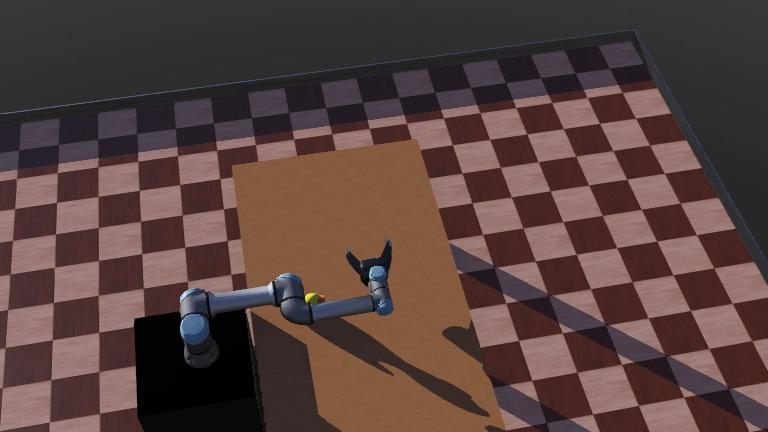
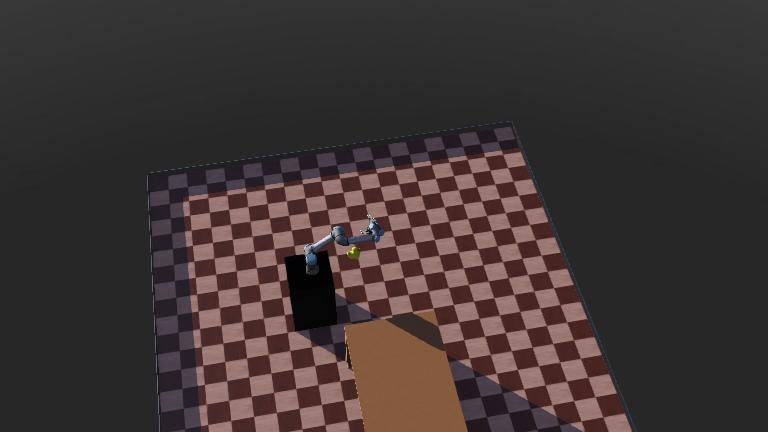
continuation of robots orientation using 'my_controllerOrientation.py' controller

diff --git a/universal_robots/controllers/my_controllerOrientation/my_controllerOrientation.py b/universal_robots/controllers/my_controllerOrientation/my_controllerOrientation.py
@@ -55,40 +55,6 @@ for motor in ur_motors:
     motor.setPosition(0.0) #set position to 0 for all motors in list
     motor.setVelocity(1.0) #set velocity for movement
 
-# Function to check for the colour yellow
-def check_for_yellow(image):
-    print("checking for yellow objects")
-    # Define lower and upper bounds for yellow color in HSV
-    lower_yellow = np.array([90, 100, 100])
-    upper_yellow = np.array([110, 255, 255])
-
-    # Convert image from BGR to HSV color space
-    hsv_image = cv2.cvtColor(image, cv2.COLOR_BGR2HSV)
-
-    # Create a mask to extract yellow regions
-    yellow_mask = cv2.inRange(hsv_image, lower_yellow, upper_yellow)
-
-    # Check if any yellow pixels are present in the image
-    return cv2.countNonZero(yellow_mask) > 0
-
-# Capture an image from the camera
-image = camera.getImageArray()
-
-# Check if the image is not None
-if image is not None:
-    # Convert the image array to a NumPy array
-    image_np = np.array(image, dtype=np.uint8)
-
-    # Call the function to check for yellow color
-    if check_for_yellow(image_np):
-        print("Yellow color detected")
-    else:
-        print("Yellow color not detected")
-else:
-    print("Error: Unable to capture camera image")
-            # Wait for the arm to reach the target position
-    sleep(1)
-
 #joint position function
 def move_to_joint_position(target_positions):
     print("moving to joint positions")
@@ -113,14 +79,28 @@ def move_to_joint_position(target_positions):
 #function loop
 move_to_joint_position(target_positions)
 
-def move_end_effector(x, y, z, target_orientation=[0,0,0]):
+target_orientation = np.eye(3) #returns 2-dimensional array
+#[1, 0, 0]
+#[0, 1, 0]
+#[0, 0, 1]
+
+def move_end_effector(x, y, z):
     print("moving end effector")
     # Inverse kinematics calculation
     IKPY_MAX_ITERATIONS = 4
+    #set initial positions
     initial_position = [0] + [m.getPositionSensor().getValue() for m in ur_motors] + [0, 1, 1, -1]
-    target_pose = [x, y, z] + target_orientation
-    ikResults = ur5e.inverse_kinematics(target_pose, max_iter=IKPY_MAX_ITERATIONS, initial_position=initial_position)
+    #compute IK with position and orientation
+    ikResults = ur5e.inverse_kinematics([x, y, z], target_orientation=target_orientation, orientation_mode="all", max_iter=IKPY_MAX_ITERATIONS, initial_position=initial_position)
 
+    #final positions and orientations of robot
+    position = ur5e.forward_kinematics(ikResults)[:3, 3]
+    orientation = ur5e.forward_kinematics(ikResults)[:3, 0]
+    
+    #compare resulting positions and orientations with targets
+    print("Requested position: {} vs Reached position: {}".format([x, y, z], position))
+    print("Requested orientation on the Y axis: {} vs Reached orientation on the Y axis: {}".format(target_orientation, orientation))
+    
     # Check if the inverse kinematics solution is valid
     if ikResults is not None:
         # Setting positions based on Inverse Kinematics
@@ -142,58 +122,4 @@ def move_end_effector(x, y, z, target_orientation=[0,0,0]):
             print("Max steps reached. Robot did not reach the target end effector position.")
 
 # Move end effector to the specified position
-move_end_effector(0.3, 0.5, 0.3, target_orientation=[0, -1.57, 1.57, -1.57, -1.57, 0.0])
-
-
-# Add a small delay to allow the simulation to catch up
-sleep(0.1)
-
-def look_for_yellow_object():
-    print("looking for yellow objects")
-    # Define the table's center and radius
-    table_center = (0.73, 0.26, 0.37)
-
-    # Define the search areas
-    search_areas = [
-        # Area 1: x cm to the right and y cm in front of the table's center
-        (table_center[0] + 0.05, table_center[1] + 0.05, 0.1, 0.1),
-        # Area 2: x cm to the left and y cm behind the table's center
-        (table_center[0] - 0.1, table_center[1] - 0.5, 0.1, 0.1),
-        # Area 3: x cm to the left and y cm above the table's center
-        (table_center[0] - 0.025, table_center[1] + 0.75, 0.1, 0.1)
-    ]
-
-    # Move the end effector to the initial position
-    move_end_effector(*table_center)
-
-    # Loop through the search areas
-    for area in search_areas:
-        # Calculate the target position for the end effector
-        target_x, target_y, target_width, target_height = area
-        target_z = table_center[2]  # Keep the same z-coordinate as the table's center
-        move_end_effector(target_x, target_y, target_z)
-
-        # Capture an image from the camera
-        image = camera.getImageArray()
-
-        # Check if the image is not None
-        if image is not None:
-            # Convert the image array to a NumPy array
-            image_np = np.array(image, dtype=np.uint8)
-                    # Display the camera feed in a window
-            cv2.imshow('Camera Feed', image_np)
-            # Call the function to check for yellow color
-            if check_for_yellow(image_np):
-                print(f"Yellow color detected in area: {area}")
-            else:
-                print(f"Yellow color not detected in area: {area}")
-        else:
-            print("Error: Unable to capture camera image")
-
-    # Move the end effector back to the initial position
-    move_end_effector(*table_center)
-# Call the function to look for yellow object
-look_for_yellow_object()
-
-#spiral search
-#move orientatio to search 
+move_end_effector(0.2, 0.4, 0.4)

diff --git a/universal_robots/controllers/my_controlleropenCV2/my_controlleropenCV2.py b/universal_robots/controllers/my_controlleropenCV2/my_controlleropenCV2.py
@@ -196,3 +196,4 @@ look_for_yellow_object()
 
 #spiral search
 #move orientatio to search 
+#move orientation relative to the arm
